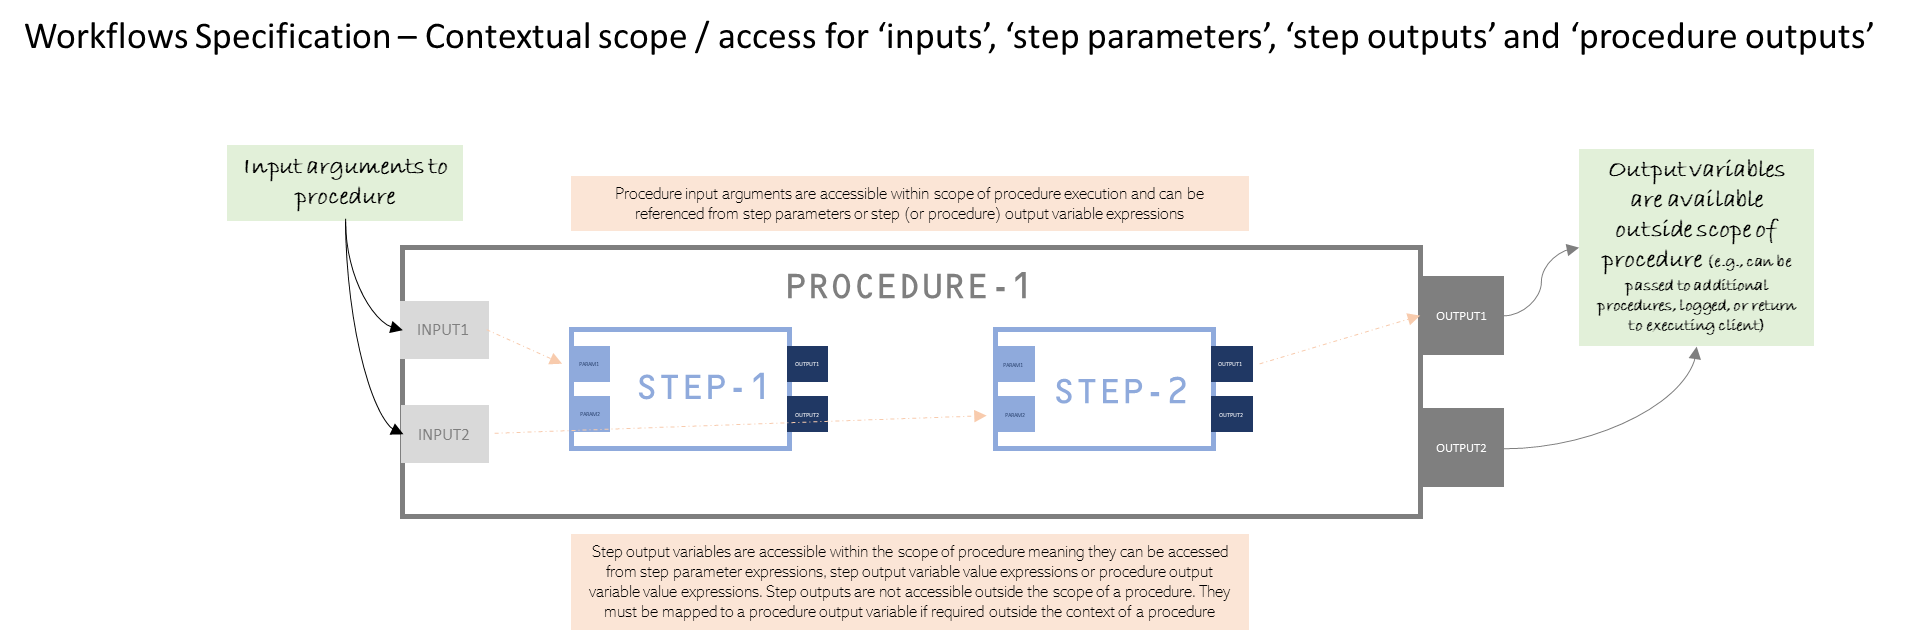
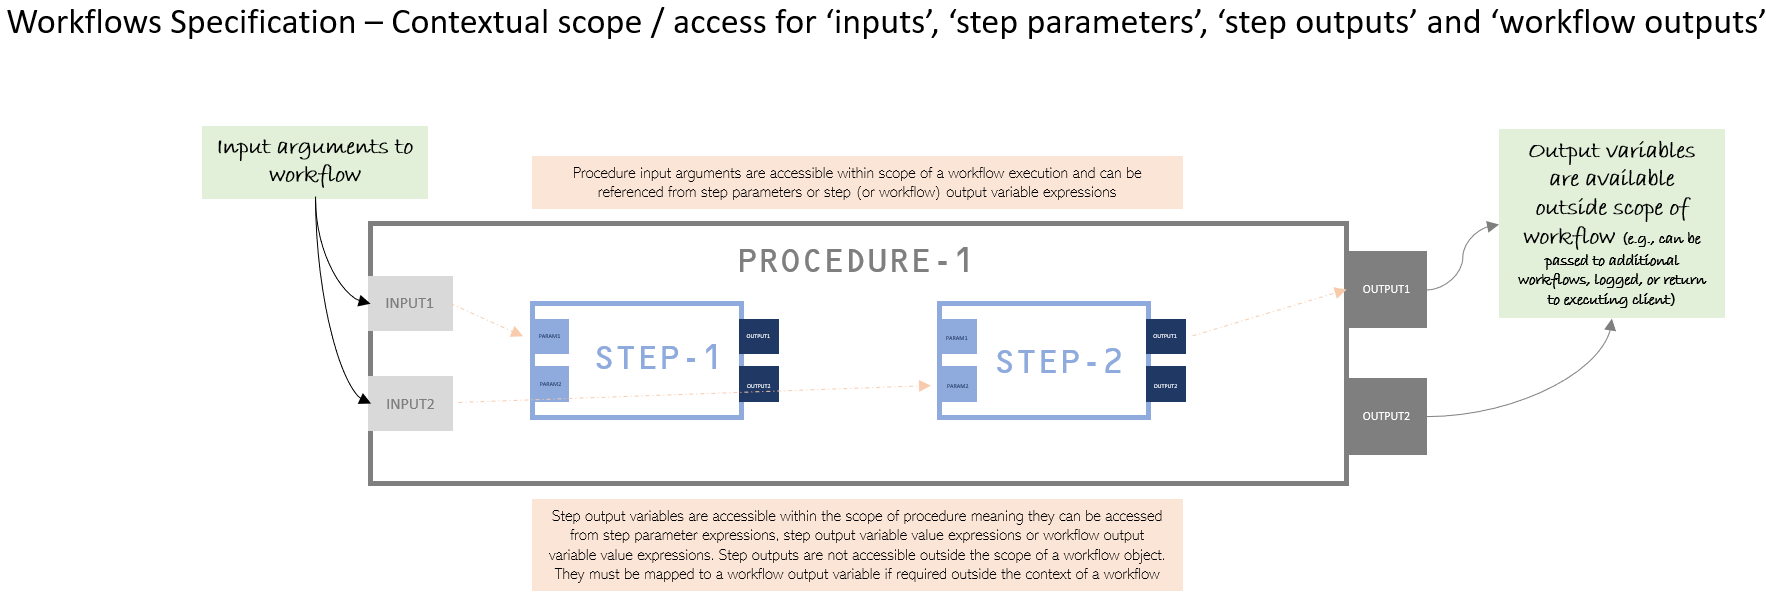
change procedure(s) to workflow(s)

diff --git a/versions/1.0.0.md b/versions/1.0.0.md
@@ -27,14 +27,14 @@ The Workflows Specification can articulate these workflows in a human and machin
     - [Data Types](#data-types)
     - [Relative References in URLs](#relative-references-in-urls)
     - [Schema](#schema)
-      - [Workflows Object](#workflows-object)
+      - [Workflows Specification Object](#workflows-specification-object)
         - [Fixed Fields](#fixed-fields)
         - [Workflows Object Example](#workflows-object-example)
       - [Info Object](#info-object)
         - [Fixed Fields](#fixed-fields-1)
-      - [Procedure Object](#procedure-object)
+      - [Workflow Object](#workflow-object)
         - [Fixed Fields](#fixed-fields-2)
-        - [Procedure Object Example](#procedure-object-example)
+        - [Workflow Object Example](#workflow-object-example)
       - [Step Object](#step-object)
         - [Fixed Fields](#fixed-fields-3)
         - [Step Object Example](#step-object-example)
@@ -53,7 +53,7 @@ The Workflows Specification can articulate these workflows in a human and machin
 ## Definitions
 
 ##### Workflows Document
-A self-contained or composite resource which defines or describes API workflows (specific sequence of calls to achieve a particular goal in the context of an API definition). The workflows document `MUST` contain a valid Workflows Specification version field, an [Info](#info-object) field, a `sources` field, and there `MUST` be at least one [Procedure](#procedure-object) defined in the procedures fixed field. A Workflows document uses and conforms to the Workflows Specification.
+A self-contained or composite resource which defines or describes API workflows (specific sequence of calls to achieve a particular goal in the context of an API definition). The workflows document `MUST` contain a valid Workflows Specification version field (`workflowsSpec`), an [Info](#info-object) field, a `sources` field, and there `MUST` be at least one [Workflow](#workflow-object) defined in the workflows fixed field. A Workflows document uses and conforms to the Workflows Specification.
 
 ## Specification
 
@@ -102,7 +102,7 @@ Unless specified otherwise, relative references are resolved using the URL of th
 
 In the following description, if a field is not explicitly **REQUIRED** or described with a MUST or SHALL, it can be considered OPTIONAL.
 
-#### Workflows Object
+#### Workflows Specification Object
 
 This is the root object of the [Workflows document](#workflows-document).
 
@@ -110,16 +110,16 @@ This is the root object of the [Workflows document](#workflows-document).
 
 Field Name | Type | Description
 ---|:---:|---
-<a name="workflowsVersion"></a>workflows | `string` | **REQUIRED**. This string MUST be the [version number](#versions) of the Workflows Specification that the Workflows document uses. The `workflows` field SHOULD be used by tooling to interpret the Workflows document. 
+<a name="workflowsVersion"></a>workflowsSpec | `string` | **REQUIRED**. This string MUST be the [version number](#versions) of the Workflows Specification that the Workflows document uses. The `workflowsSpec` field SHOULD be used by tooling to interpret the Workflows document. 
 <a name="workflowsInfo"></a>info | [Info Object](#info-object) | **REQUIRED**. Provides metadata about the Workflows. The metadata MAY be used by tooling as required.
 <a name="workflowsSources"></a>sources | Map[`string`, `string`] | **REQUIRED**. An object storing a map between named document keys and location URLs to the source documents (such as an OpenAPI document) this workflow SHALL apply to. Each source location `string` MUST be in the form of a [URL](https://url.spec.whatwg.org/). MAY be defined using relative references as defined by [RFC3986](https://spec.openapis.org/oas/latest.html#bib-RFC3986).
-<a name="workflowsProcedures"></a>procedures | Map[`string`, [Procedure Object](#procedure-object)] | **REQUIRED**. A map between a friendly name and a workflow procedure. The map MUST have at least one entry.
+<a name="workflows"></a>workflows | Map[`string`, [Workflow Object](#workflow-object)] | **REQUIRED**. A map between a friendly name and a workflow. The map MUST have at least one entry.
 
 This object MAY be extended with [Specification Extensions](#specification-extensionsxtensions).
 
 ##### Workflows Object Example
 ```
-workflows: 1.0.0
+workflowsSpec: 1.0.0
 info:
     title: A pet purchasing workflow
     summary: This workflow showcases how to purchase a pet through a sequence of API calls
@@ -129,11 +129,11 @@ info:
 sources:
     petStore: https://github.com/swagger-api/swagger-petstore/blob/master/src/main/resources/openapi.yaml
 
-procedures:
+workflows:
   petRetrieval:
     summary: Login User and then retrieve pets
-    description: This procedure lays out the steps to login a user and then retrieve pets
-    procedureId: loginUser
+    description: This workflow lays out the steps to login a user and then retrieve pets
+    workflowId: loginUser
     inputs: 
         type: object
         properties:
@@ -175,7 +175,7 @@ procedures:
 
 #### Info Object
 
-The object provides metadata about the Workflows.
+The object provides metadata about the API Workflows defined in this document.
 The metadata MAY be used by the clients if needed.
 
 ##### Fixed Fields
@@ -183,7 +183,7 @@ The metadata MAY be used by the clients if needed.
 Field Name | Type | Description
 ---|:---:|---
 <a name="infoTitle"></a>title | `string` | **REQUIRED**. A human readable title of the Workflows document.
-<a name="infoSummary"></a>summary | `string` | A short summary of the workflows.
+<a name="infoSummary"></a>summary | `string` | A short summary of the Workflows document.
 <a name="infoDescription"></a>description | `string` | A description of the purpose of the Workflows document. [CommonMark syntax](https://spec.commonmark.org/) MAY be used for rich text representation.
 <a name="infoVersion"></a>version | `string` | **REQUIRED**. A version identifier for indicating changes to the Workflows document (which is distinct from the [Workflows Specification version](#versions).
 
@@ -200,29 +200,29 @@ version: 1.0.1
 ```
 
 
-#### Procedure Object
+#### Workflow Object
 
-Describes the steps to be taken across one or more APIs to achieve an objective. The procedure object MAY define variables needed in order to execute procedure steps, where the defined steps represent a call to an API operation or another procedure, and a set of outputs.
+Describes the steps to be taken across one or more APIs to achieve an objective. The workflow object MAY define variables needed in order to execute workflow steps, where the defined steps represent a call to an API operation or another workflow, and a set of outputs.
 
 ##### Fixed Fields
 
 Field Name | Type | Description
 ---|:---:|---
-<a name="procedureSummary"></a>summary | `string` | A summary of the purpose or objective of the procedure.
-<a name="procedureDescription"></a>description | `string` | A description of the procedure. [CommonMark syntax](https://spec.commonmark.org/) MAY be used for rich text representation.
-<a name="procedureId"></a>procedureId | `string` | **REQUIRED**. Unique string to represent the procedure. The id MUST be unique amongst all procedures describe in the workflow. The `procedureId` value is **case-sensitive**. Tools and libraries MAY use the `procedureId` to uniquely identify a procedure, therefore, it is RECOMMENDED to follow common programming naming conventions.
-<a name="procedureInputs"></a>inputs | `JSON Schema` | A JSON Schema object representing the input parameters used by this workflow
-<a name="procedureSteps"></a>steps | [[Step Object](#step-object)] | **REQUIRED**. An ordered list of steps where each step represents a call to an API operation or to another procedure
+<a name="workflowSummary"></a>summary | `string` | A summary of the purpose or objective of the workflow.
+<a name="workflowDescription"></a>description | `string` | A description of the workflow. [CommonMark syntax](https://spec.commonmark.org/) MAY be used for rich text representation.
+<a name="workflowId"></a>workflowId | `string` | **REQUIRED**. Unique string to represent the workflow. The id MUST be unique amongst all workflows describe in the Workflows document. The `workflowId` value is **case-sensitive**. Tools and libraries MAY use the `workflowId` to uniquely identify a workflow, therefore, it is RECOMMENDED to follow common programming naming conventions.
+<a name="workflowInputs"></a>inputs | `JSON Schema` | A JSON Schema object representing the input parameters used by this workflow
+<a name="workflowSteps"></a>steps | [[Step Object](#step-object)] | **REQUIRED**. An ordered list of steps where each step represents a call to an API operation or to another workflow
 <a name="outputs"></a>outputs | Map[`string`, {expression}] |  A map between a friendly name and a dynamic output value. The name MUST use keys that match the regular expression: `^[a-zA-Z0-9\.\-_]+$`.
 
 This object MAY be extended with [Specification Extensions](#specification-extensions).
 
-##### Procedure Object Example
+##### Workflow Object Example
 
 ```
 summary: Login User
-description: This procedure lays out the steps to login a user
-procedureId: loginUser
+description: This workflow lays out the steps to login a user
+workflowId: loginUser
 inputs: 
     type: object
     properties:
@@ -251,18 +251,18 @@ outputs:
 
 #### Step Object
 
-Describes a single procedure step which MAY be a call to an API operation ([OpenAPI Operation Object](https://spec.openapis.org/oas/latest.html#operation-object) or [AsyncAPI Operation Object](https://www.asyncapi.com/docs/reference/specification/v2.5.0#operationObject)) or another [Procedure Object](#procedure-object)
+Describes a single workflow step which MAY be a call to an API operation ([OpenAPI Operation Object](https://spec.openapis.org/oas/latest.html#operation-object) or [AsyncAPI Operation Object](https://www.asyncapi.com/docs/reference/specification/v2.5.0#operationObject)) or another [Workflow Object](#workflow-object)
 
 ##### Fixed Fields
 
 Field Name | Type | Description
 ---|:---:|---
 <a name="stepDescription"></a>description | `string` | A description of the step. [CommonMark syntax](https://spec.commonmark.org/) MAY be used for rich text representation.
-<a name="stepId"></a>stepId | `string` | **REQUIRED**. Unique string to represent the step. The id SHOULD be unique amongst all steps described in the workflow. The stepId value is **case-sensitive**. Tools and libraries MAY use the stepId to uniquely identify a procedure step, therefore, it is RECOMMENDED to follow common programming naming conventions.
-<a name="stepOperationId"></a>operationId | `string` | The name of an existing, resolvable operation, as defined with a unique `operationId` and existing within one of the `source` documents. The referenced operation will be invoked by this workflow step. If more than one `source` document is defined within a Workflows document, then the `operationId` specified MUST be prefixed with the source name to avoid ambiguity or potential clashes. This field is mutually exclusive of the `operationRef` and `procedureId` fields respectively.
-<a name="stepOperationRef"></a>operationRef | `string` | A relative or absolute URI reference to an OAS operation. This field is mutually exclusive of the `operationId` and `procedureId` fields respectively. Relative `operationRef` values MAY be used to locate an existing. See [OpenAPI relative reference resolution rules](https://github.com/OAI/OpenAPI-Specification/blob/main/versions/3.1.0.md#relativeReferencesURI) for guidance. A complete [URI Template](https://www.rfc-editor.org/rfc/rfc6570) can also be used.
-<a name="stepProcedureId"></a>procedureId | `string` | The [procedureId](#fixed-fields-2) referencing an existing procedure within the Workflows document. The field is mutually exclusive of the `operationId` and `operationRef` fields respectively.
-<a name="stepParameters"></a>parameters | Map[`string`, Any \| {expression}] | A map representing parameters to pass to an operation as specified with `operationId` or identified via `operationRef`. The key is the parameter name to be used, whereas the value can be a constant or an [expression](#runtime-expressions) to be evaluated and passed to the referenced operation or procedure. The parameter name can be qualified using the parameter location [{in}.]{name} for operations that use the same parameter name in different locations (e.g. path.id).
+<a name="stepId"></a>stepId | `string` | **REQUIRED**. Unique string to represent the step. The id SHOULD be unique amongst all steps described in the workflow. The stepId value is **case-sensitive**. Tools and libraries MAY use the stepId to uniquely identify a workflow step, therefore, it is RECOMMENDED to follow common programming naming conventions.
+<a name="stepOperationId"></a>operationId | `string` | The name of an existing, resolvable operation, as defined with a unique `operationId` and existing within one of the `source` documents. The referenced operation will be invoked by this workflow step. If more than one `source` document is defined within a Workflows document, then the `operationId` specified MUST be prefixed with the source name to avoid ambiguity or potential clashes. This field is mutually exclusive of the `operationRef` and `workflowId` fields respectively.
+<a name="stepOperationRef"></a>operationRef | `string` | A relative or absolute URI reference to an OAS operation. This field is mutually exclusive of the `operationId` and `workflowId` fields respectively. Relative `operationRef` values MAY be used to locate an existing. See [OpenAPI relative reference resolution rules](https://github.com/OAI/OpenAPI-Specification/blob/main/versions/3.1.0.md#relativeReferencesURI) for guidance. A complete [URI Template](https://www.rfc-editor.org/rfc/rfc6570) can also be used.
+<a name="stepWorkflowId"></a>workflowId | `string` | The [workflowId](#fixed-fields-2) referencing an existing workflow within the Workflows document. The field is mutually exclusive of the `operationId` and `operationRef` fields respectively.
+<a name="stepParameters"></a>parameters | Map[`string`, Any \| {expression}] | A map representing parameters to pass to an operation as specified with `operationId` or identified via `operationRef`. The key is the parameter name to be used, whereas the value can be a constant or an [expression](#runtime-expressions) to be evaluated and passed to the referenced operation or workflow. The parameter name can be qualified using the parameter location [{in}.]{name} for operations that use the same parameter name in different locations (e.g. path.id).
 <a name="dependsOn"></a>dependsOn | [`string`] | A list of steps that MUST be completed before this step can be processed. This helps to ensure workflow steps are executed in the correct order and that dependent steps are not processed in parallel. The values provided MUST be the be the `stepId` which uniquely references a step. 
 <a name="stepSuccessCriteria"></a>successCriteria | [{expression}] | A list of assertions to determine the success of the step
 <a name="stepOnSuccess"></a>onSuccess | [[Success Action](#success-action-object)] | An array of success action objects that specify what to do upon step success. If omitted, the next sequential step shall be executed as the default behavior.
@@ -326,13 +326,13 @@ steps:
 
 #### Success Action Object
 
-A single success action which describes an action to take upon success of a procedure step.
+A single success action which describes an action to take upon success of a workflow step.
 
 ##### Fixed Fields
 Field Name | Type | Description
 ---|:---:|---
 <a name="successActionType"></a> type | string | **REQUIRED**. The type of action to take. Possible values are `"end"` or `"goto"`
-<a name="successStepId"></a> stepId | string | The `stepId` to jump to based on the success of the step. This field is only relevant when the `type` field value is `goto`. The value of the `stepId` MAY be within any procedure defined in the Workflows document. For convenience, the value MAY be formatted as _procedureId.stepId_.
+<a name="successStepId"></a> stepId | string | The `stepId` to jump to based on the success of the step. This field is only relevant when the `type` field value is `goto`. The value of the `stepId` MAY be within any workflow defined in the Workflows document. For convenience, the value MAY be formatted as _workflowId.stepId_.
 <a name="successCriteria"></a> criteria | [{expression}] |  A list of assertions to determine if this action SHALL be executed.
 
 **Note -** should multiple success actions have similar successCriteria, the first sequential action matching the criteria SHALL be the action executed.
@@ -348,13 +348,13 @@ criteria:
 
 #### Failure Action Object
 
-A single failure action which describes an action to take upon success of a procedure step.
+A single failure action which describes an action to take upon success of a workflow step.
 
 ##### Fixed Fields
 Field Name | Type | Description
 ---|:---:|---
 <a name="failureActionType"></a> type | string | **REQUIRED**. The type of action to take. Possible values are `"end"`, `"goto"` or `"retry"`
-<a name="failureStepId"></a> stepId | string | The `stepId` to jump to based on the failure of the step. This field is only relevant when the `type` field value is `goto`. The value of the `stepId` MAY be within any procedure defined in the Workflows document. For convenience, the value MAY be formatted as _procedureId.stepId_.
+<a name="failureStepId"></a> stepId | string | The `stepId` to jump to based on the failure of the step. This field is only relevant when the `type` field value is `goto`. The value of the `stepId` MAY be within any workflow defined in the Workflows document. For convenience, the value MAY be formatted as _workflowId.stepId_.
 <a name="failureRetryAfter"></a> retryAfter | number | A non-negative decimal indicating the milliseconds delay after the step failure before another attempt SHALL be made. **Note:** if an HTTP [Retry-After](https://www.rfc-editor.org/rfc/rfc9110.html#name-retry-after) response header was returned to a step from a targeted operation, then it SHOULD overrule this particular field value. This field only applies when the `type` field value is `retry`.
 <a name="failureRetryLimit"></a> retryLimit | integer | A non-negative integer indicating how many attempts to retry the step MAY be attempted before failing the overall step. If not specified then a single retry SHALL be attempted. This field only applies when the `type` field value is `retry`. The `retryLimit` MUST be exhausted prior to executing subsequent failure actions.
 <a name="failureCriteria"></a> criteria | [{expression}] |  A list of assertions to determine if this action SHALL be executed.
@@ -372,12 +372,12 @@ criteria:
 ```
 
 ### <a name="runtimeExpressions"></a>Runtime Expressions
-A runtime expression allows values to be defined based on information that will be available within an HTTP message, an event message, and within objects serialized from the Workflows document such as [procedures](#procedure-object) or [steps](#step-object).
+A runtime expression allows values to be defined based on information that will be available within an HTTP message, an event message, and within objects serialized from the Workflows document such as [workflows](#workflow-object) or [steps](#step-object).
 
 The runtime expression is defined by the following [ABNF](https://tools.ietf.org/html/rfc5234) syntax:
 
 ```
-      expression = ( "$url" / "$method" / "$statusCode" / "$request." source / "$response." source / "$message." source / "$inputs." name / "$steps." name / "$procedures." name)
+      expression = ( "$url" / "$method" / "$statusCode" / "$request." source / "$response." source / "$message." source / "$inputs." name / "$steps." name / "$workflows." name)
       source = ( header-reference / query-reference / path-reference / body-reference / message-header-reference / message-payload-reference )
       header-reference = "header." token
       query-reference = "query." name  
@@ -408,7 +408,7 @@ Request body property   | `$request.body#/user/uuid`   | In operations which acc
 Request URL            | `$url`            |  
 Response value         | `$response.body#/status`       |  In operations which return payloads, references may be made to portions of the response body or the entire body.
 Response header        | `$response.header.Server` |  Single header values only are available
-Procedure input        | `$inputs.username` |  Single input values only are available
+workflow input        | `$inputs.username` |  Single input values only are available
 Step output Value        | `$steps.someStep.pets` |  In situations where the output named property return payloads, references may be made to portions of the response body or the entire body.
 
 Runtime expressions preserve the type of the referenced value.
@@ -443,6 +443,6 @@ Version   | Date       | Notes
 
 ## <a name="contextualScopeImage"></a>Appendix C: Contextual scope / access for inputs and outputs
 
-This quick image is to add some context / scope access overview for `inputs`, `step parameters`, `step outputs` and `procedure outputs`
+This quick image is to add some context / scope access overview for `inputs`, `step parameters`, `step outputs` and `workflow outputs`
 
 ![Contextual Access Scope](./SupportingImages/Workflows-Access-Scope-for-Inputs-and-Outputs.png)
